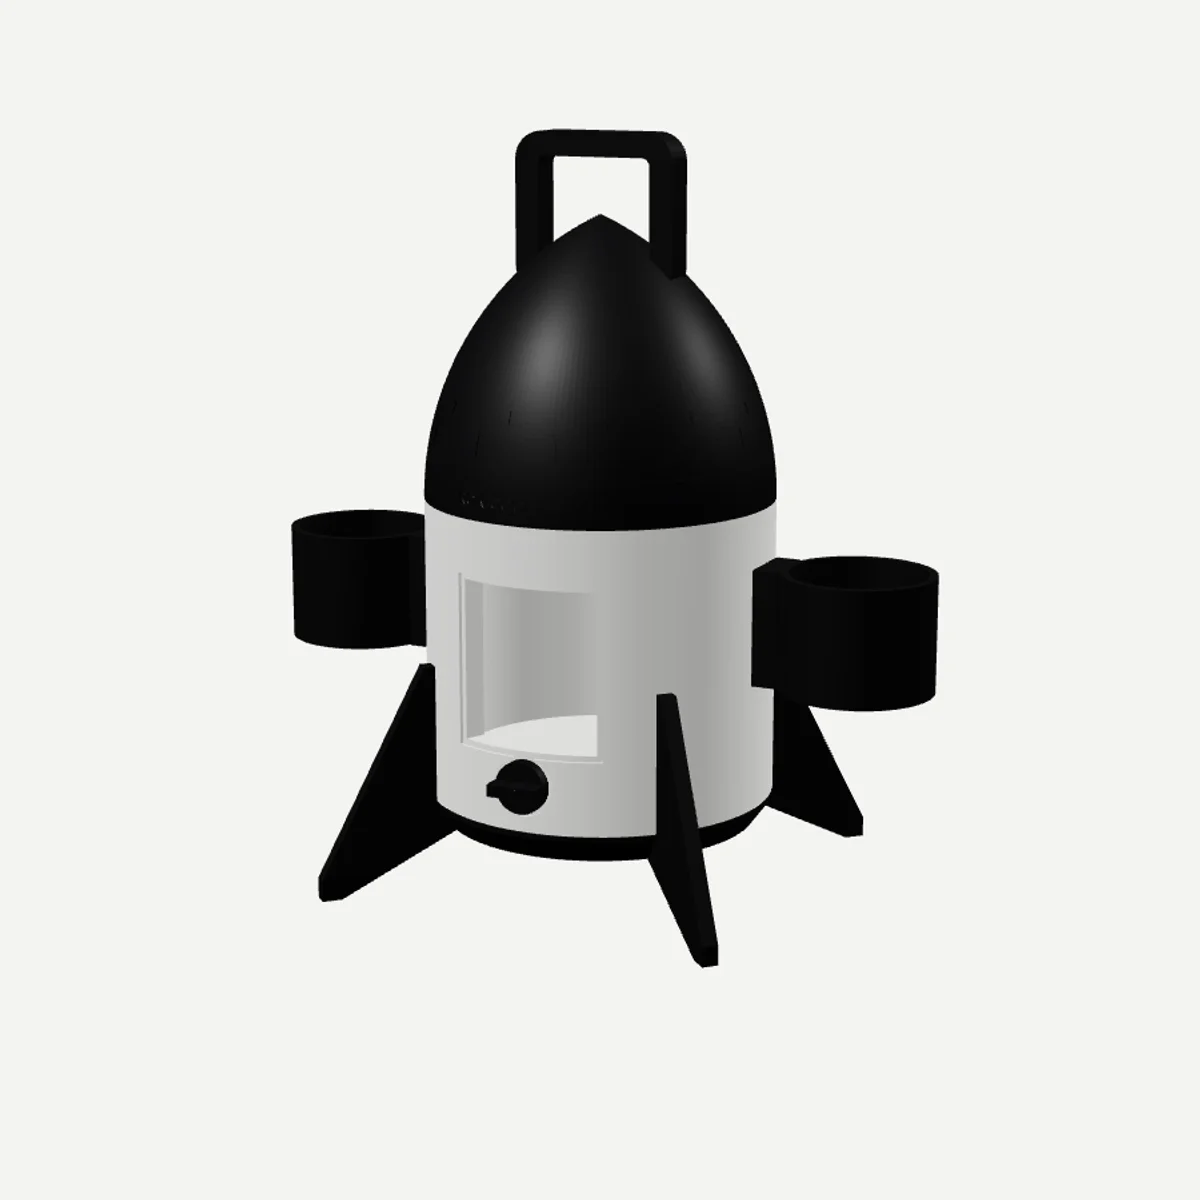
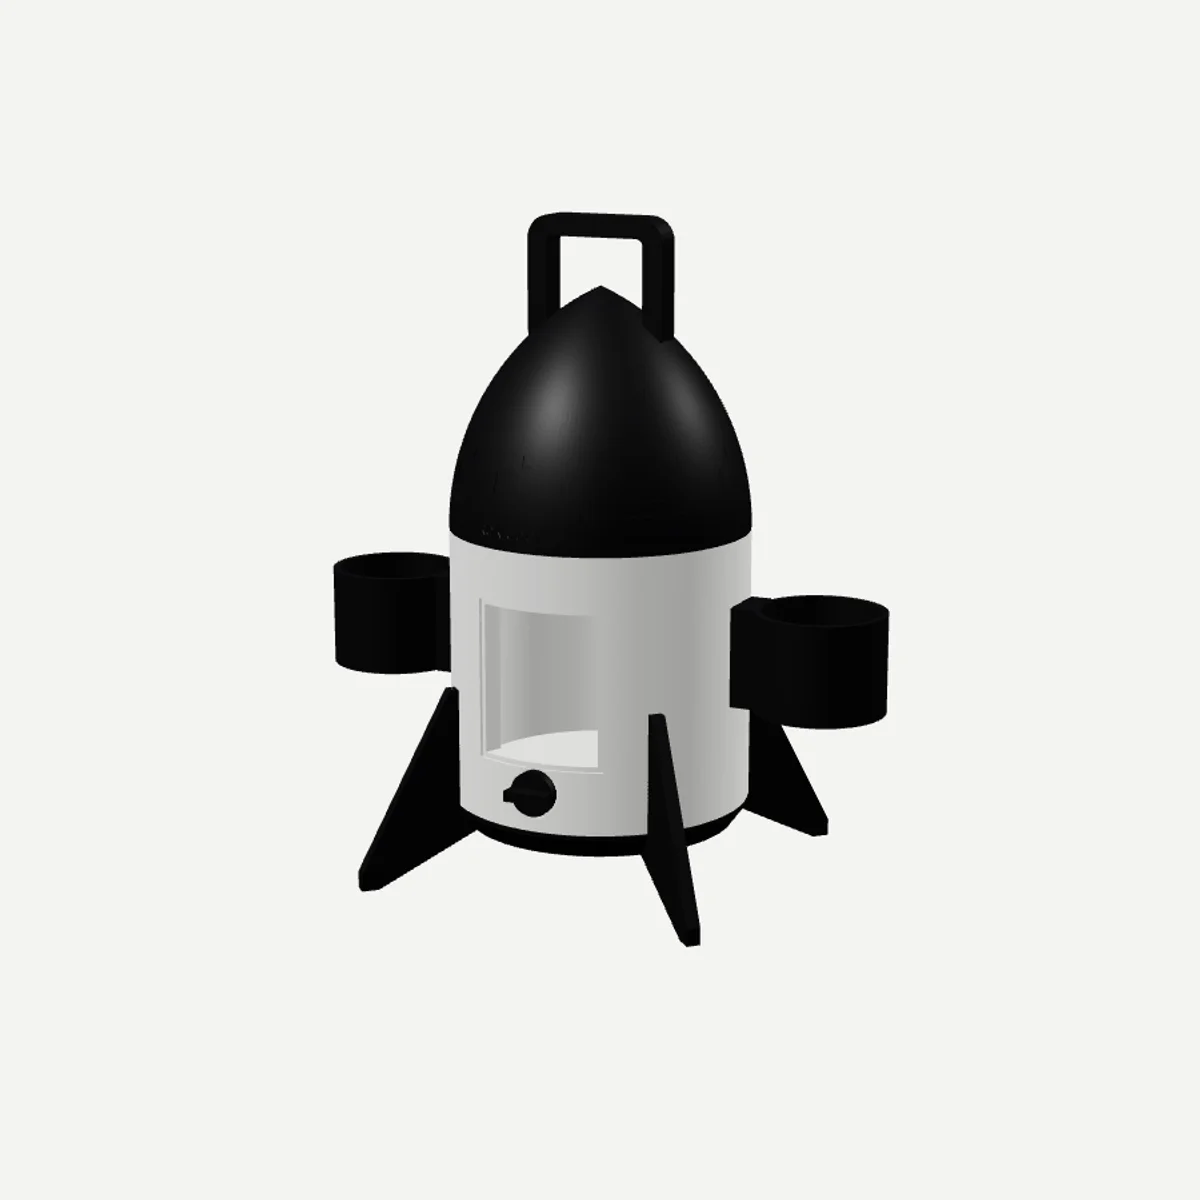
Rok-Cooler 7 Latas (R$ 949,90) ao lado do Mini; Mini com 38 cm e render atualizado

Changed region(s): [[0.2158, 0.0925, 0.8017, 0.8017]]

diff --git a/src/lib/products.ts b/src/lib/products.ts
@@ -68,10 +68,10 @@ export const PRODUCTS: Product[] = [
     category: "invencoes",
     art: "box",
     price: 649.9,
-    short: "Um foguete de 37 cm que guarda 3 latas no gelo e mais 2 nas laterais.",
+    short: "Um foguete de 38 cm que guarda 3 latas no gelo e mais 2 nas laterais.",
     description:
-      "Invenção da casa: um cooler em forma de foguete, com câmara de gelo, janela dupla transparente pra ver o que tem dentro e dreno rosqueado na frente pra tirar a água do gelo derretido. As paredes grossas, de 16 mm, isolam o gelo. A tampa-ogiva trava com um giro e tem alça pra carregar pra churrasco, piscina ou escritório. A 1ª foto é a arte do conceito; a 2ª é o projeto 3D do Mini.",
-    specs: ["37 cm de altura", "3 latas no gelo + 2 nos porta-latas laterais", "Janela dupla com camada de ar", "Tampa com trava de giro e alça", "Dreno rosqueado com anel de vedação", "Feito sob encomenda — prazo combinado no WhatsApp"],
+      "Invenção da casa: um cooler em forma de foguete, com câmara de gelo, janela dupla transparente pra ver o que tem dentro e dreno rosqueado na frente pra tirar a água do gelo derretido. As paredes grossas, de 14 mm, isolam o gelo. A tampa-ogiva trava com um giro e tem alça pra carregar pra churrasco, piscina ou escritório. A 1ª foto é a arte do conceito; a 2ª é o projeto 3D do Mini.",
+    specs: ["38 cm de altura", "3 latas no gelo + 2 nos porta-latas laterais", "Janela dupla com camada de ar", "Tampa com trava de giro e alça", "Dreno rosqueado com anel de vedação", "Feito sob encomenda — prazo combinado no WhatsApp"],
     colors: ["espacial"],
     badge: "Invenção nossa",
   },
@@ -86,6 +86,19 @@ export const PRODUCTS: Product[] = [
       "Invenção da casa: uma mesinha de pong hexagonal com 6 copinhos, que se prende entre duas latas com travas de encaixe. Abre, encaixa e o jogo está montado em segundos — na mesa do bar, no churrasco ou na sala. Acompanha bolinha.",
     specs: ["6 copinhos em triângulo", "Travas que prendem em latas de 350 ml", "Abre e fecha por encaixe (snap)", "Bolinha inclusa"],
     colors: ["candy"],
+    badge: "Invenção nossa",
+  },
+  {
+    slug: "rok-cooler-7-latas",
+    name: "Rok-Cooler 7 Latas — Cooler Foguete",
+    category: "invencoes",
+    art: "box",
+    price: 949.9,
+    short: "O irmão maior: 7 latas no gelo e mais 2 nas laterais. 43 cm de foguete.",
+    description:
+      "A versão família do nosso cooler foguete. A câmara de gelo leva 7 latas (6 em volta e 1 no meio) — ou 6 com mais espaço pro gelo. Paredes de 16 mm que isolam, janela dupla transparente, dreno rosqueado na frente, tampa-ogiva que trava com um giro e alça no topo. A 1ª foto é a arte do conceito; a 2ª é o projeto 3D desta versão.",
+    specs: ["43 cm de altura", "7 latas no gelo + 2 nos porta-latas laterais", "Câmara de 4,7 litros", "Janela dupla com camada de ar", "Tampa com trava de giro e alça", "Feito sob encomenda — prazo combinado no WhatsApp"],
+    colors: ["espacial"],
     badge: "Invenção nossa",
   },
   {

diff --git a/src/lib/photos.ts b/src/lib/photos.ts
@@ -3,6 +3,7 @@
 // Ex.: "dragao-articulado-cristal": ["/produtos/dragao-cristal-1.webp", "/produtos/dragao-cristal-2.webp"],
 export const PHOTOS: Record<string, string[]> = {
   "rok-cooler": ["/produtos/rok-cooler-1.webp", "/produtos/rok-cooler-2.webp"],
+  "rok-cooler-7-latas": ["/produtos/rok-cooler-1.webp", "/produtos/rok-cooler-7latas-2.webp"],
   "snap-pong": ["/produtos/snap-pong-1.webp"],
   "boneco-rei-do-rock": ["/produtos/rei-do-rock-1.webp"],
 };

diff --git a/src/app/page.tsx b/src/app/page.tsx
@@ -66,7 +66,7 @@ export default function Home() {
             </dl>
           </div>
           <div className="grid grid-cols-2 gap-3">
-            {inv.map((p, i) => (
+            {inv.filter((p) => p.slug !== "rok-cooler-7-latas").slice(0, 3).map((p, i) => (
               <Link
                 key={p.slug}
                 href={`/produto/${p.slug}`}
